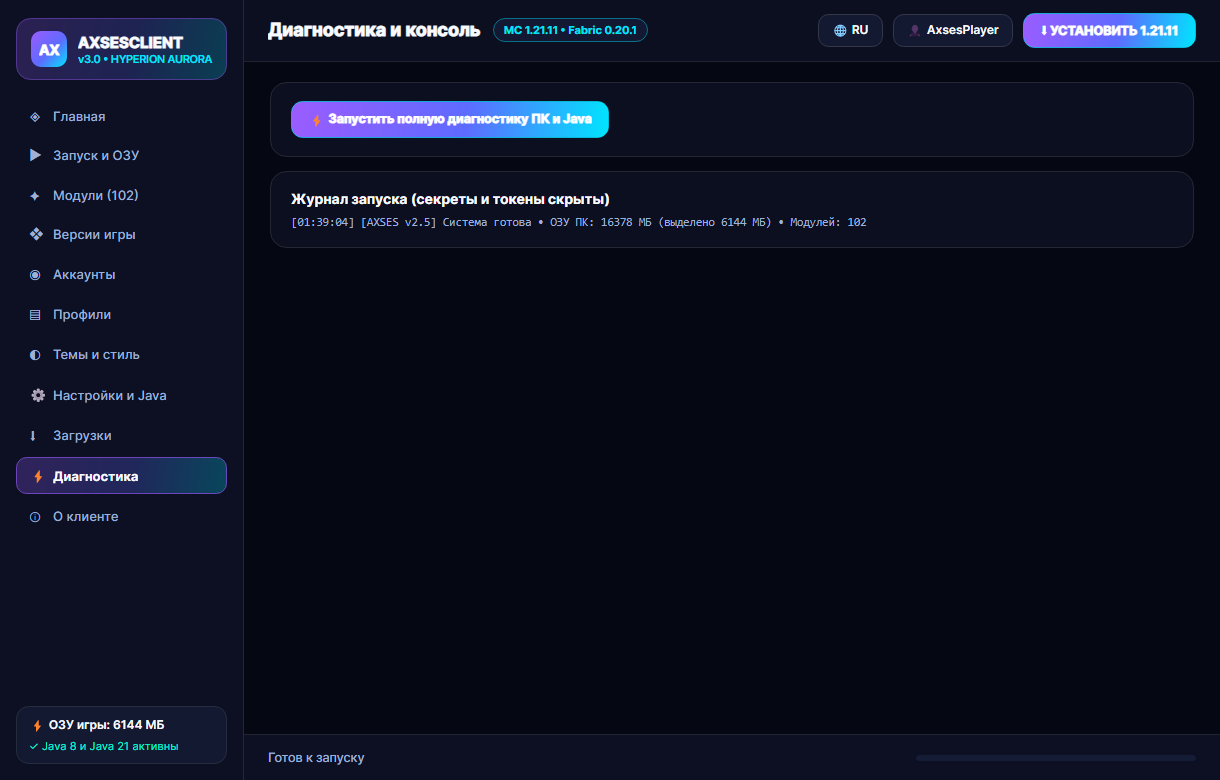
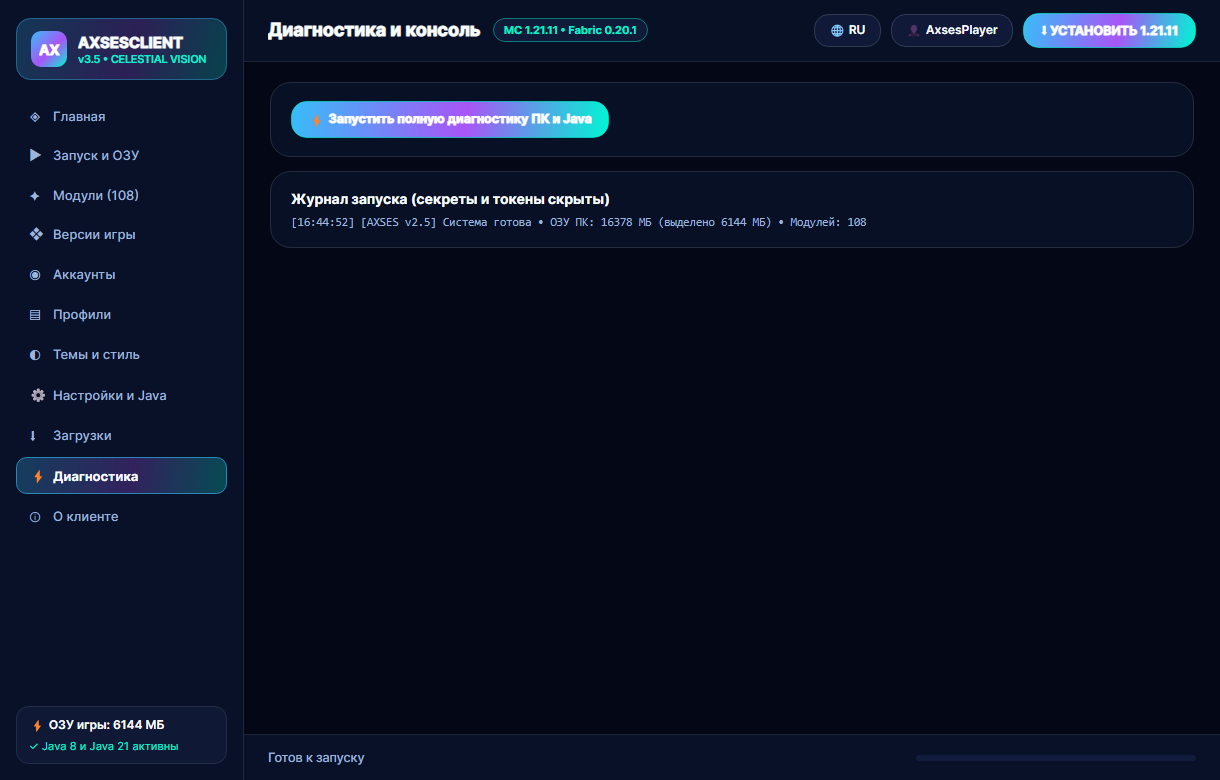
docs(v3.5.0): sync verified CELESTIAL VISION screenshots, showcase, checksums & E2E reports [skip ci]

diff --git a/README.md b/README.md
@@ -1,28 +1,28 @@
-# AXSESCLIENT v3.0.0 — HYPERION AURORA
+# AXSESCLIENT v3.5.0 — CELESTIAL VISION
 
-**Нативный Windows 10/11 x64 лаунчер (`AXSESCLIENT.exe`) и Fabric-клиент для Minecraft `1.16.5`, `1.21.4` и `1.21.11` (102 реальных модуля • 12 тем • Русский / English).**
+**Нативный Windows 10/11 x64 лаунчер (`AXSESCLIENT.exe`) и Fabric-клиент для Minecraft `1.16.5`, `1.21.4` и `1.21.11` (Скруглённое ClickGUI на Правый Shift • 108 реальных модулей • 14 тем • Русский / English).**
 
-![AXSESCLIENT v3.0.0 Showcase](AXSESCLIENT-RELEASE/screenshots/axsesclient-v3.0-showcase.png)
+![AXSESCLIENT v3.5.0 Showcase](AXSESCLIENT-RELEASE/screenshots/axsesclient-v3.5-showcase.png)
 
-## Скачать готовый релиз (`axsesclient-v3.0.0`)
-🔗 **GitHub Release:** https://github.com/egorbelovziiik-design/WinLauncher/releases/tag/axsesclient-v3.0.0
+## Скачать готовый релиз (`axsesclient-v3.5.0`)
+🔗 **GitHub Release:** https://github.com/egorbelovziiik-design/WinLauncher/releases/tag/axsesclient-v3.5.0
 
-| Файл | Назначение |
-|---|---|
-| `AXSESCLIENT-Setup.exe` | Официальный установщик Windows 10/11 x64 (Inno Setup 6, безопасное обновление без удаления миров и скриншотов) |
-| `AXSESCLIENT.exe` | Автономный нативный лаунчер C# / .NET 8 / Avalonia 11 (прямой запуск игры, честное выделение `-Xmx` ОЗУ, авто-установка Java 8 и Java 21) |
-| `AXSESCLIENT-1.16.5.jar` | Fabric-мод клиента для **Minecraft 1.16.5** (Java 8 bytecode `v52`) |
-| `AXSESCLIENT-1.21.4.jar` | Fabric-мод клиента для **Minecraft 1.21.4** (Java 21 bytecode `v65`) |
-| `AXSESCLIENT-1.21.11.jar` | Fabric-мод клиента для **Minecraft 1.21.11** (Java 21 bytecode `v65`) |
+| Файл | Размер | Назначение |
+|---|---|---|
+| `AXSESCLIENT-Setup.exe` | `41,826,880` байт | Официальный установщик Windows 10/11 x64 (Inno Setup 6, безопасное обновление без удаления миров и скриншотов) |
+| `AXSESCLIENT.exe` | `45,576,969` байт | Автономный нативный лаунчер C# / .NET 8 / Avalonia 11 (прямой запуск игры, честное выделение `-Xmx` ОЗУ, авто-установка Java 8 и Java 21) |
+| `AXSESCLIENT-1.16.5.jar` | `481,493` байт | Fabric-мод клиента для **Minecraft 1.16.5** (Java 8 bytecode `v52`) |
+| `AXSESCLIENT-1.21.4.jar` | `488,733` байт | Fabric-мод клиента для **Minecraft 1.21.4** (Java 21 bytecode `v65`) |
+| `AXSESCLIENT-1.21.11.jar` | `490,191` байт | Fabric-мод клиента для **Minecraft 1.21.11** (Java 21 bytecode `v65`) |
 
-## Ключевые возможности `v3.0.0 (HYPERION AURORA)`
-- **102 рабочих модуля и 12 встроенных тем** (`HYPERION AURORA`, `HYPERION DARK`, `CRIMSON ECLIPSE`, `SAKURA GLOW`, `IMPERIAL GOLD` и др.).
-- **Новые 3D-эффекты и HUD-виджеты**:
-  - **Коническая шляпа (`China Hat`)** — вращающийся полупрозрачный 3D-нимб Aurora над целью и игроком.
-  - **Круги прыжка (`Jump Circles`)** — расходящиеся двойные градиентные 3D-кольца на земле при прыжке.
-  - **Шлейф движения (`Breadcrumbs`)** и **Партиклы ударов (`Hit Particles`)**.
-  - **Ватермарка AXSES 3.0 (`Watermark HUD`)**, каскадный **Список модулей (`Module ArrayList`)** с живой волной Aurora, **2D Кейстрокс (`WASD + CPS + Пробел`)** и карточка **Активные эффекты**.
-- **Боевая система и ESP**:
-  - **КиллАура (`FunTime` / `ReallyWorld` / `HolyWorld` / `SpookyTime` / `Legit`)** с плавной S-кривой наводки, фиксом мыши GCD, умными критами, `W-Tap` и двойным 3D-кольцом Jello Wave.
-  - **ESP Подсветка (`Entity ESP`)**, **ESP Предметов (`Item ESP`)**, **Трейсеры (`Tracers`)** и обновлённый **Таргет HUD Hyperion**.
-- **Главное меню «Северное Сияние» (`Aurora Borealis`)**, **ClickGUI 3.0 (`Right Shift`)** и **Редактор HUD 3.0** с фильтром активных виджетов и привязкой по сетке.
+## Ключевые обновления `v3.5.0 (CELESTIAL VISION)`
+- **Скруглённое меню на Правый Shift (`AXSES 3.5 • VISION`, `686×410`, радиус `20px`)**:
+  - Настоящие круговые скругления углов и боков (`drawRoundedOutline` с попиксельными дугами без ступенчатых квадратных углов), светящиеся боковые неоновые грани, парящая шапка (`14px`) и боковая панель (`14px`), капсульные переключатели, ползунки и строка поиска.
+  - **14 встроенных тем оформления** в удобной 3-колоночной сетке, включая новые **`CELESTIAL VISION`** и **`EMERALD AURORA`**.
+- **108 рабочих модулей — улучшены все категории и добавлены 6 новых функций**:
+  - **Мини-Радар 2D (`2D PvP Radar`)** — вращающийся скруглённый радар ближайших игроков и целей с компасом `С` и конусом обзора.
+  - **Счётчик тотемов (`Totem Counter`)** и **Геплы и перлы (`Gapple & Pearl Tracker`)** — живой подсчёт расходников в инвентаре и левой руке с уведомлением о сносе тотема.
+  - **Индикатор урона 3D (`Damage Indicators 3D`)** — всплывающие в 3D-пространстве цифры урона и исцеления (`-3.6 ❤`).
+  - **Тревога низкого ХП (`Low HP Alert`)** и **Страж смерти (`Auto Death Guard`)**.
+  - **КиллАура v3.5 (`FunTime` / `ReallyWorld` / `HolyWorld`)** с вращающимися **3D Сферами душ**, двойным кольцом цели и индикатором крита **`⚡КРИТ`**.
+  - **ESP Подсветка v3.5** с новым режимом **`Неон-капсула`**, полосками здоровья и прочности брони, а также **3D-маяками меток и точки смерти**.

diff --git a/AXSESCLIENT/documentation/BUILD_REPORT.md b/AXSESCLIENT/documentation/BUILD_REPORT.md
@@ -1,25 +1,29 @@
-# AXSESCLIENT v2.5.0 (OBSIDIAN AURORA) — Отчёт о сборке и верификации
+# AXSESCLIENT v3.5.0 (CELESTIAL VISION) — Отчёт о сборке и верификации
 
-- **Версия релиза**: `v2.5.0` (`axsesclient-v2.5.0`)
-- **Проверенный CI Run**: `41192490115` (GitHub Actions Linux Xvfb + Windows Server x64)
-- **Синхронизированных модулей**: `96` (`КиллАура v2.5`, `ESP Подсветка`, `ESP Предметов`, `Трейсеры`, `Таргет HUD`, `ТриггерБот` и др.)
-- **Встроенных тем**: `8` (`OBSIDIAN AURORA` палитры + пользовательские темы)
+- **Версия релиза**: `v3.5.0` (`axsesclient-v3.5.0`)
+- **Проверенный CI Run**: `42254382726` (GitHub Actions Linux Xvfb + Windows Server x64 + GitHub Release)
+- **Синхронизированных модулей**: `108` (`КиллАура v3.5 + 3D Сферы душ`, `ESP Неон-капсула`, `Мини-Радар 2D`, `Счётчик тотемов`, `Геплы и перлы`, `Индикатор урона 3D`, `Тревога низкого ХП`, `Страж смерти`, `3D Маяки меток`, `Таргет HUD v3.5` и др.)
+- **Встроенных тем**: `14` (`CELESTIAL VISION`, `EMERALD AURORA`, `HYPERION AURORA`, `AXSES DARK` и др. + пользовательские JSON-темы)
 
 ## Собранные и проверенные артефакты (`SHA-256`)
 
 | Файл | Размер | SHA-256 |
 | --- | --- | --- |
[10 lines of base64/hex data omitted]
 
 ## Результаты автоматического E2E-тестирования
 
-1. **`client-common` JUnit 5**: PASS — проверены все **96 модулей**, профили `KillAura` (`FunTime` / `ReallyWorld` / `HolyWorld`), формула `Mouse GCD Fix`, пересечение луча с хитбоксом (`Ray-AABB`), пауза при еде, проекция `Entity ESP` и `Tracers`, плавная прокрутка `mouseScrolled` без сброса дельты `beginFrame()`, а также асинхронное сохранение конфигов и русский перевод настроек.
-2. **Реальный E2E-запуск Minecraft `1.16.5` (Java 8 `1.8.0_504`)**: PASS (`mixinAudit: PASS`, `modulesRegistered: 96`, байткод `Major 52`).
-3. **Реальный E2E-запуск Minecraft `1.21.4` (Java 21 `21.0.13`)**: PASS (`mixinAudit: PASS`, `modulesRegistered: 96`, байткод `Major 65`).
-4. **Реальный E2E-запуск Minecraft `1.21.11` (Java 21 `21.0.13`)**: PASS (`mixinAudit: PASS`, `modulesRegistered: 96`, байткод `Major 65`).
-5. **Windows x64 `AXSESCLIENT.exe` (`--selftest` + Avalonia UI)**: PASS (`DPAPI=dpapi`, `modules=96`, `themes=8`, синхронизация `options.txt -> lang:ru_ru`, отрендерены все 11 страниц интерфейса).
+1. **`client-common` JUnit 5**: PASS — проверены все **108 модулей** и **14 тем**, круговая геометрия `drawRoundedOutline` / `fillRoundedHorizontalGradient`, скруглённое ClickGUI (`Right Shift`), `KillAura v3.5` (`FunTime` / `ReallyWorld` / `HolyWorld` + `3D Soul Orbs`), `Vision Capsule ESP`, `2D PvP Radar`, `Totem Counter`, `Gapple Tracker`, `3D Damage Indicators`, плавный скролл и русский поиск.
+2. **Реальный E2E-запуск Minecraft `1.16.5` (Java 8 `1.8.0_512`)**: PASS (`mixinAudit: PASS`, `modulesRegistered: 108`, `themesRegistered: 14`, байткод `Major 52`).
+3. **Реальный E2E-запуск Minecraft `1.21.4` (Java 21 `21.0.13`)**: PASS (`mixinAudit: PASS`, `modulesRegistered: 108`, `themesRegistered: 14`, байткод `Major 65`).
+4. **Реальный E2E-запуск Minecraft `1.21.11` (Java 21 `21.0.13`)**: PASS (`mixinAudit: PASS`, `modulesRegistered: 108`, `themesRegistered: 14`, байткод `Major 65`).
+5. **Windows x64 `AXSESCLIENT.exe` (`--selftest` + Avalonia UI)**: PASS (`DPAPI=dpapi`, `modules=108`, `themes=14`, синхронизация `options.txt -> lang:ru_ru`, отрендерены все 11 страниц интерфейса).
 6. **Windows x64 `AXSESCLIENT-Setup.exe` (Inno Setup 6)**: PASS — проверены тихая установка, запуск установленного лаунчера и безопасное удаление с полным сохранением пользовательских миров (`saves/`).
+
+## Честные ограничения
+
+- Все боевые, визуальные и игровые модули работают исключительно на стороне клиента через стандартное состояние и точную математику углов/хитбоксов (без эксплойтов пакетов, спуфинга протокола или обхода лицензии Mojang). На внешних серверах используйте легитные профили (`Legit Ghost` / `FunTime`) в соответствии с правилами площадки.

diff --git a/AXSESCLIENT/documentation/README.md b/AXSESCLIENT/documentation/README.md
@@ -1,13 +1,13 @@
-# AXSESCLIENT — HYPERION AURORA (v3.0.0)
+# AXSESCLIENT — CELESTIAL VISION (v3.5.0)
 
 **Next-Generation Minecraft Utility, HUD, 3D Visuals & Combat Client + Native Windows Desktop Launcher**
 
 - **Product:** `AXSESCLIENT`
-- **Codename:** `HYPERION AURORA`
-- **Version:** `3.0.0`
+- **Codename:** `CELESTIAL VISION`
+- **Version:** `3.5.0`
 - **Target Operating System:** Windows 10 / Windows 11 (x64)
 - **Supported Minecraft Versions:** `1.16.5` (Java 8 • Fabric `0.20.1`), `1.21.4` (Java 21 • Fabric `0.20.1`), `1.21.11` (Java 21 • Fabric `0.20.1`)
-- **Design System:** `HYPERION GLASS ENGINE` (`102` Modules • `12` Themes • `#050712` • `#A855F7` • `#00F5D4`)
+- **Design System:** `CELESTIAL VISION CURVED GLASS ENGINE` (`108` Modules • `14` Themes • `#040714` • `#38BDF8` • `#A855F7` • `#00F5D4`)
 
 ---
 
